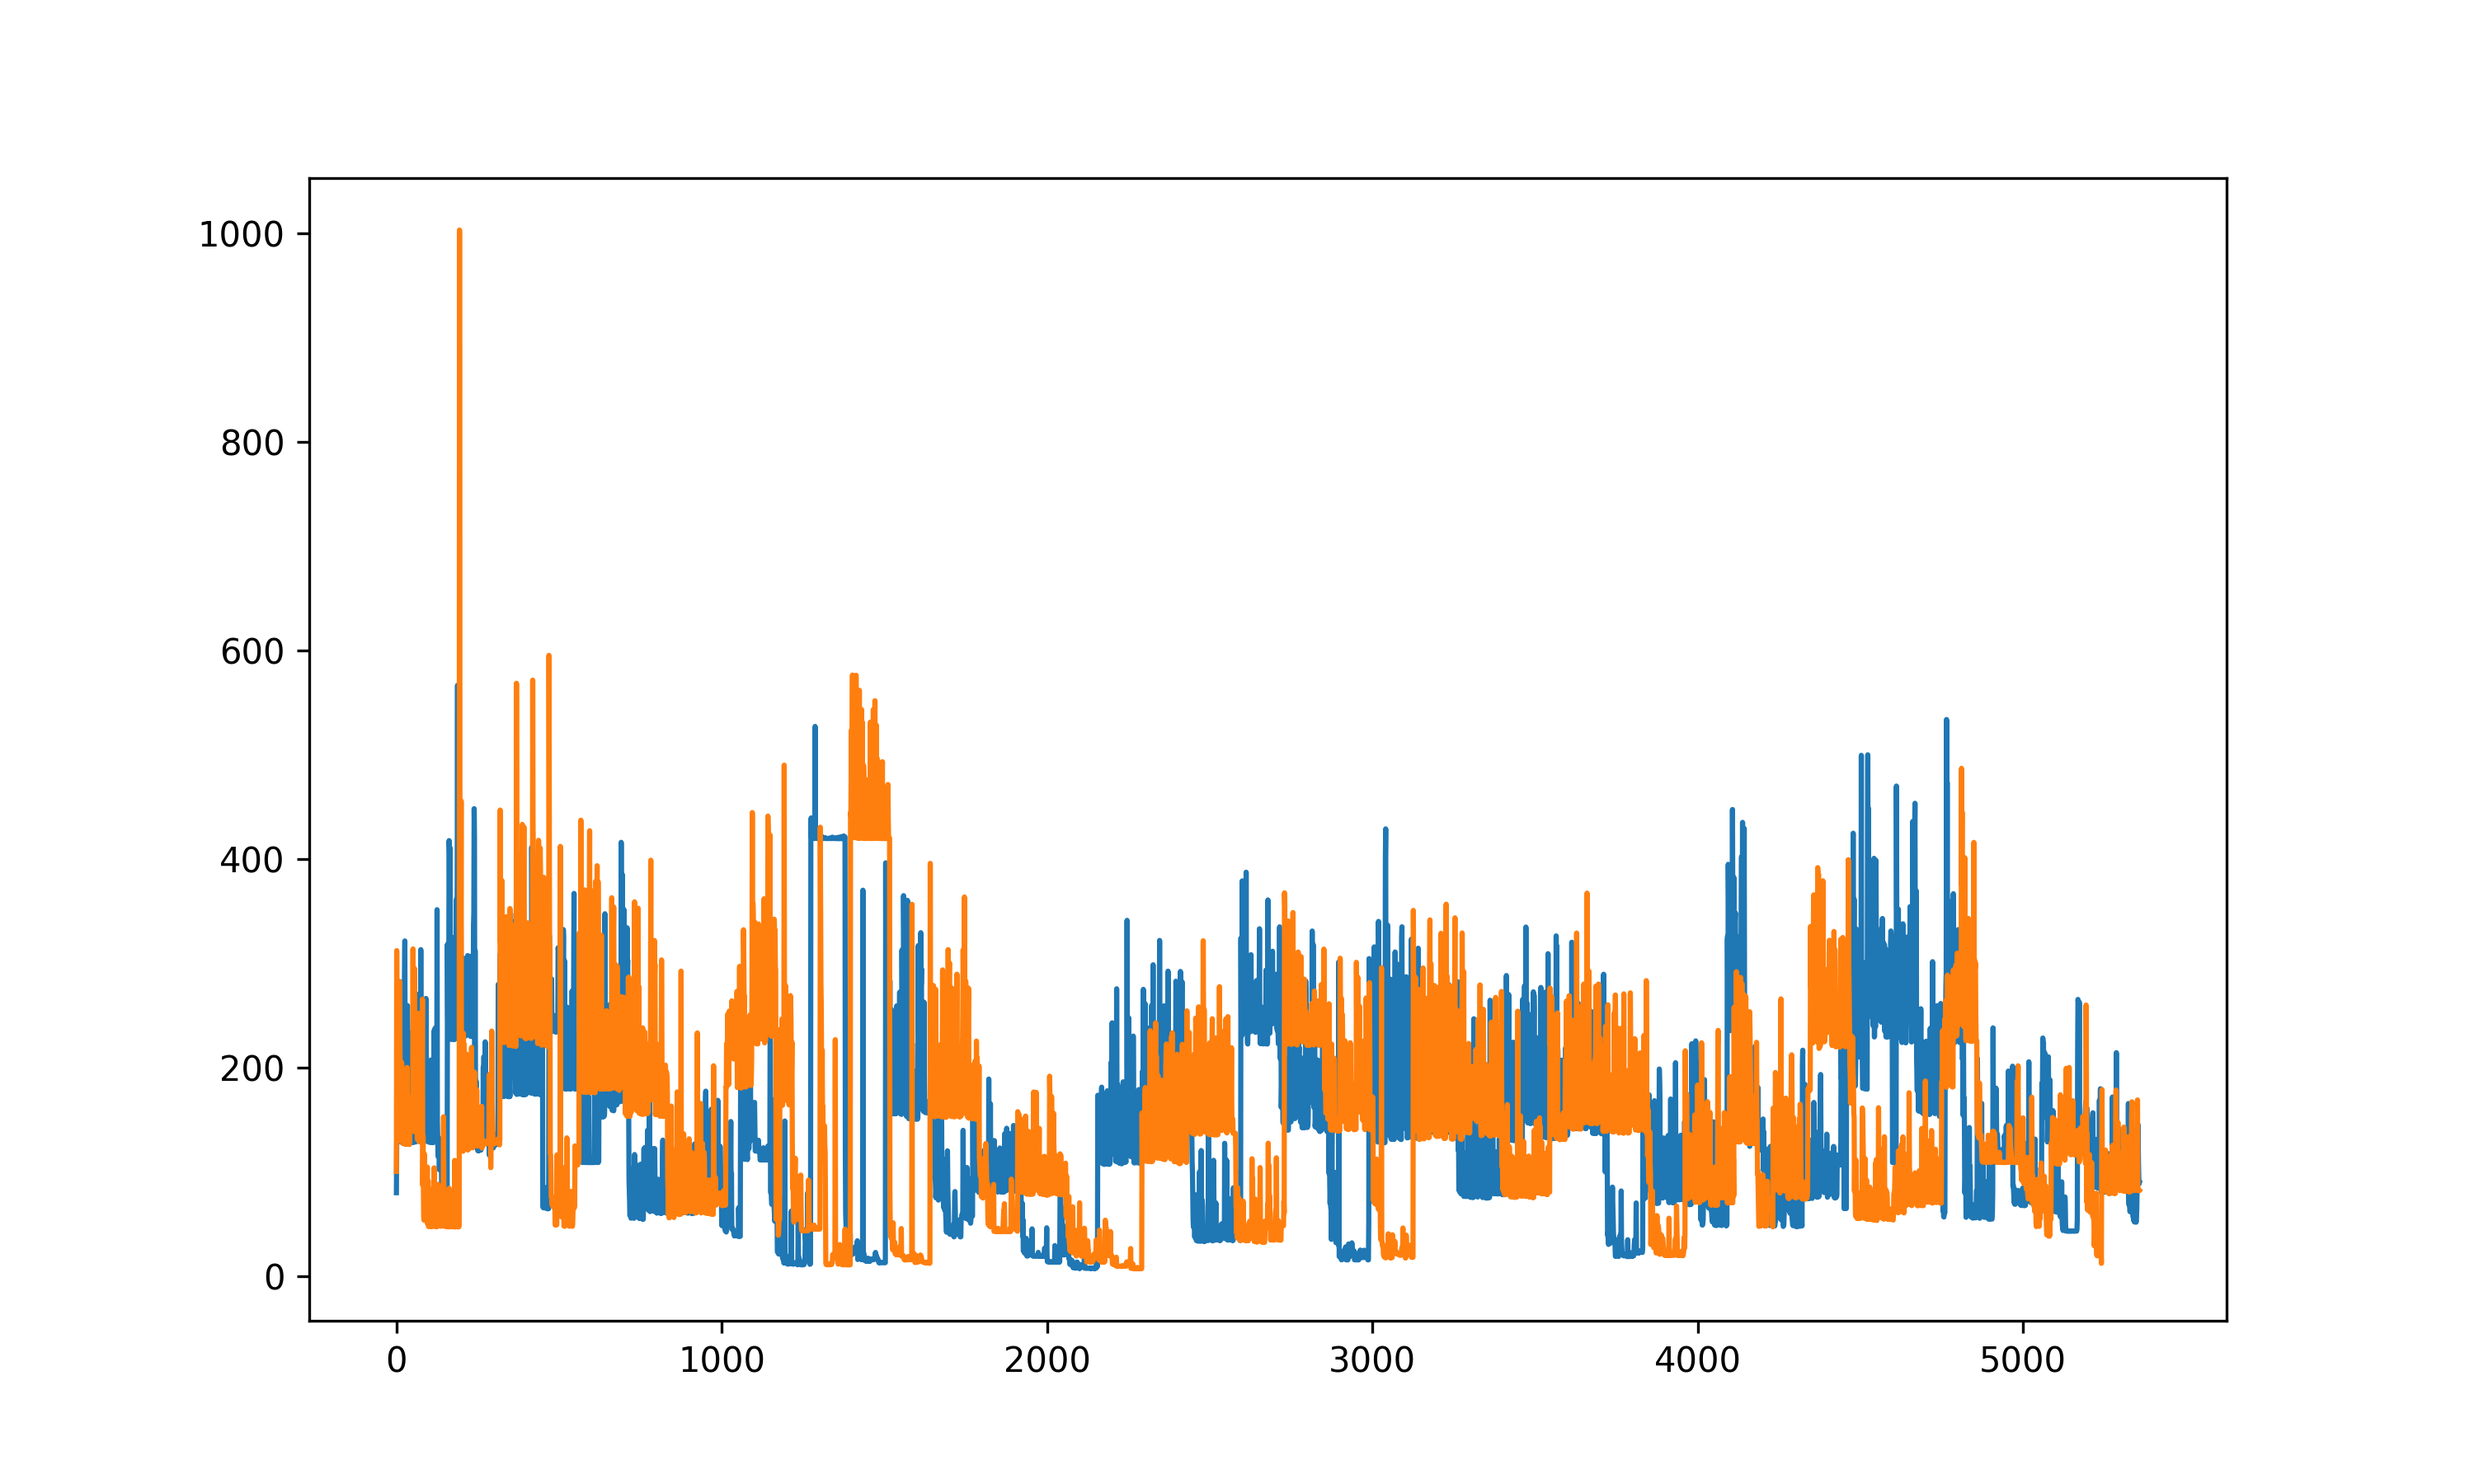
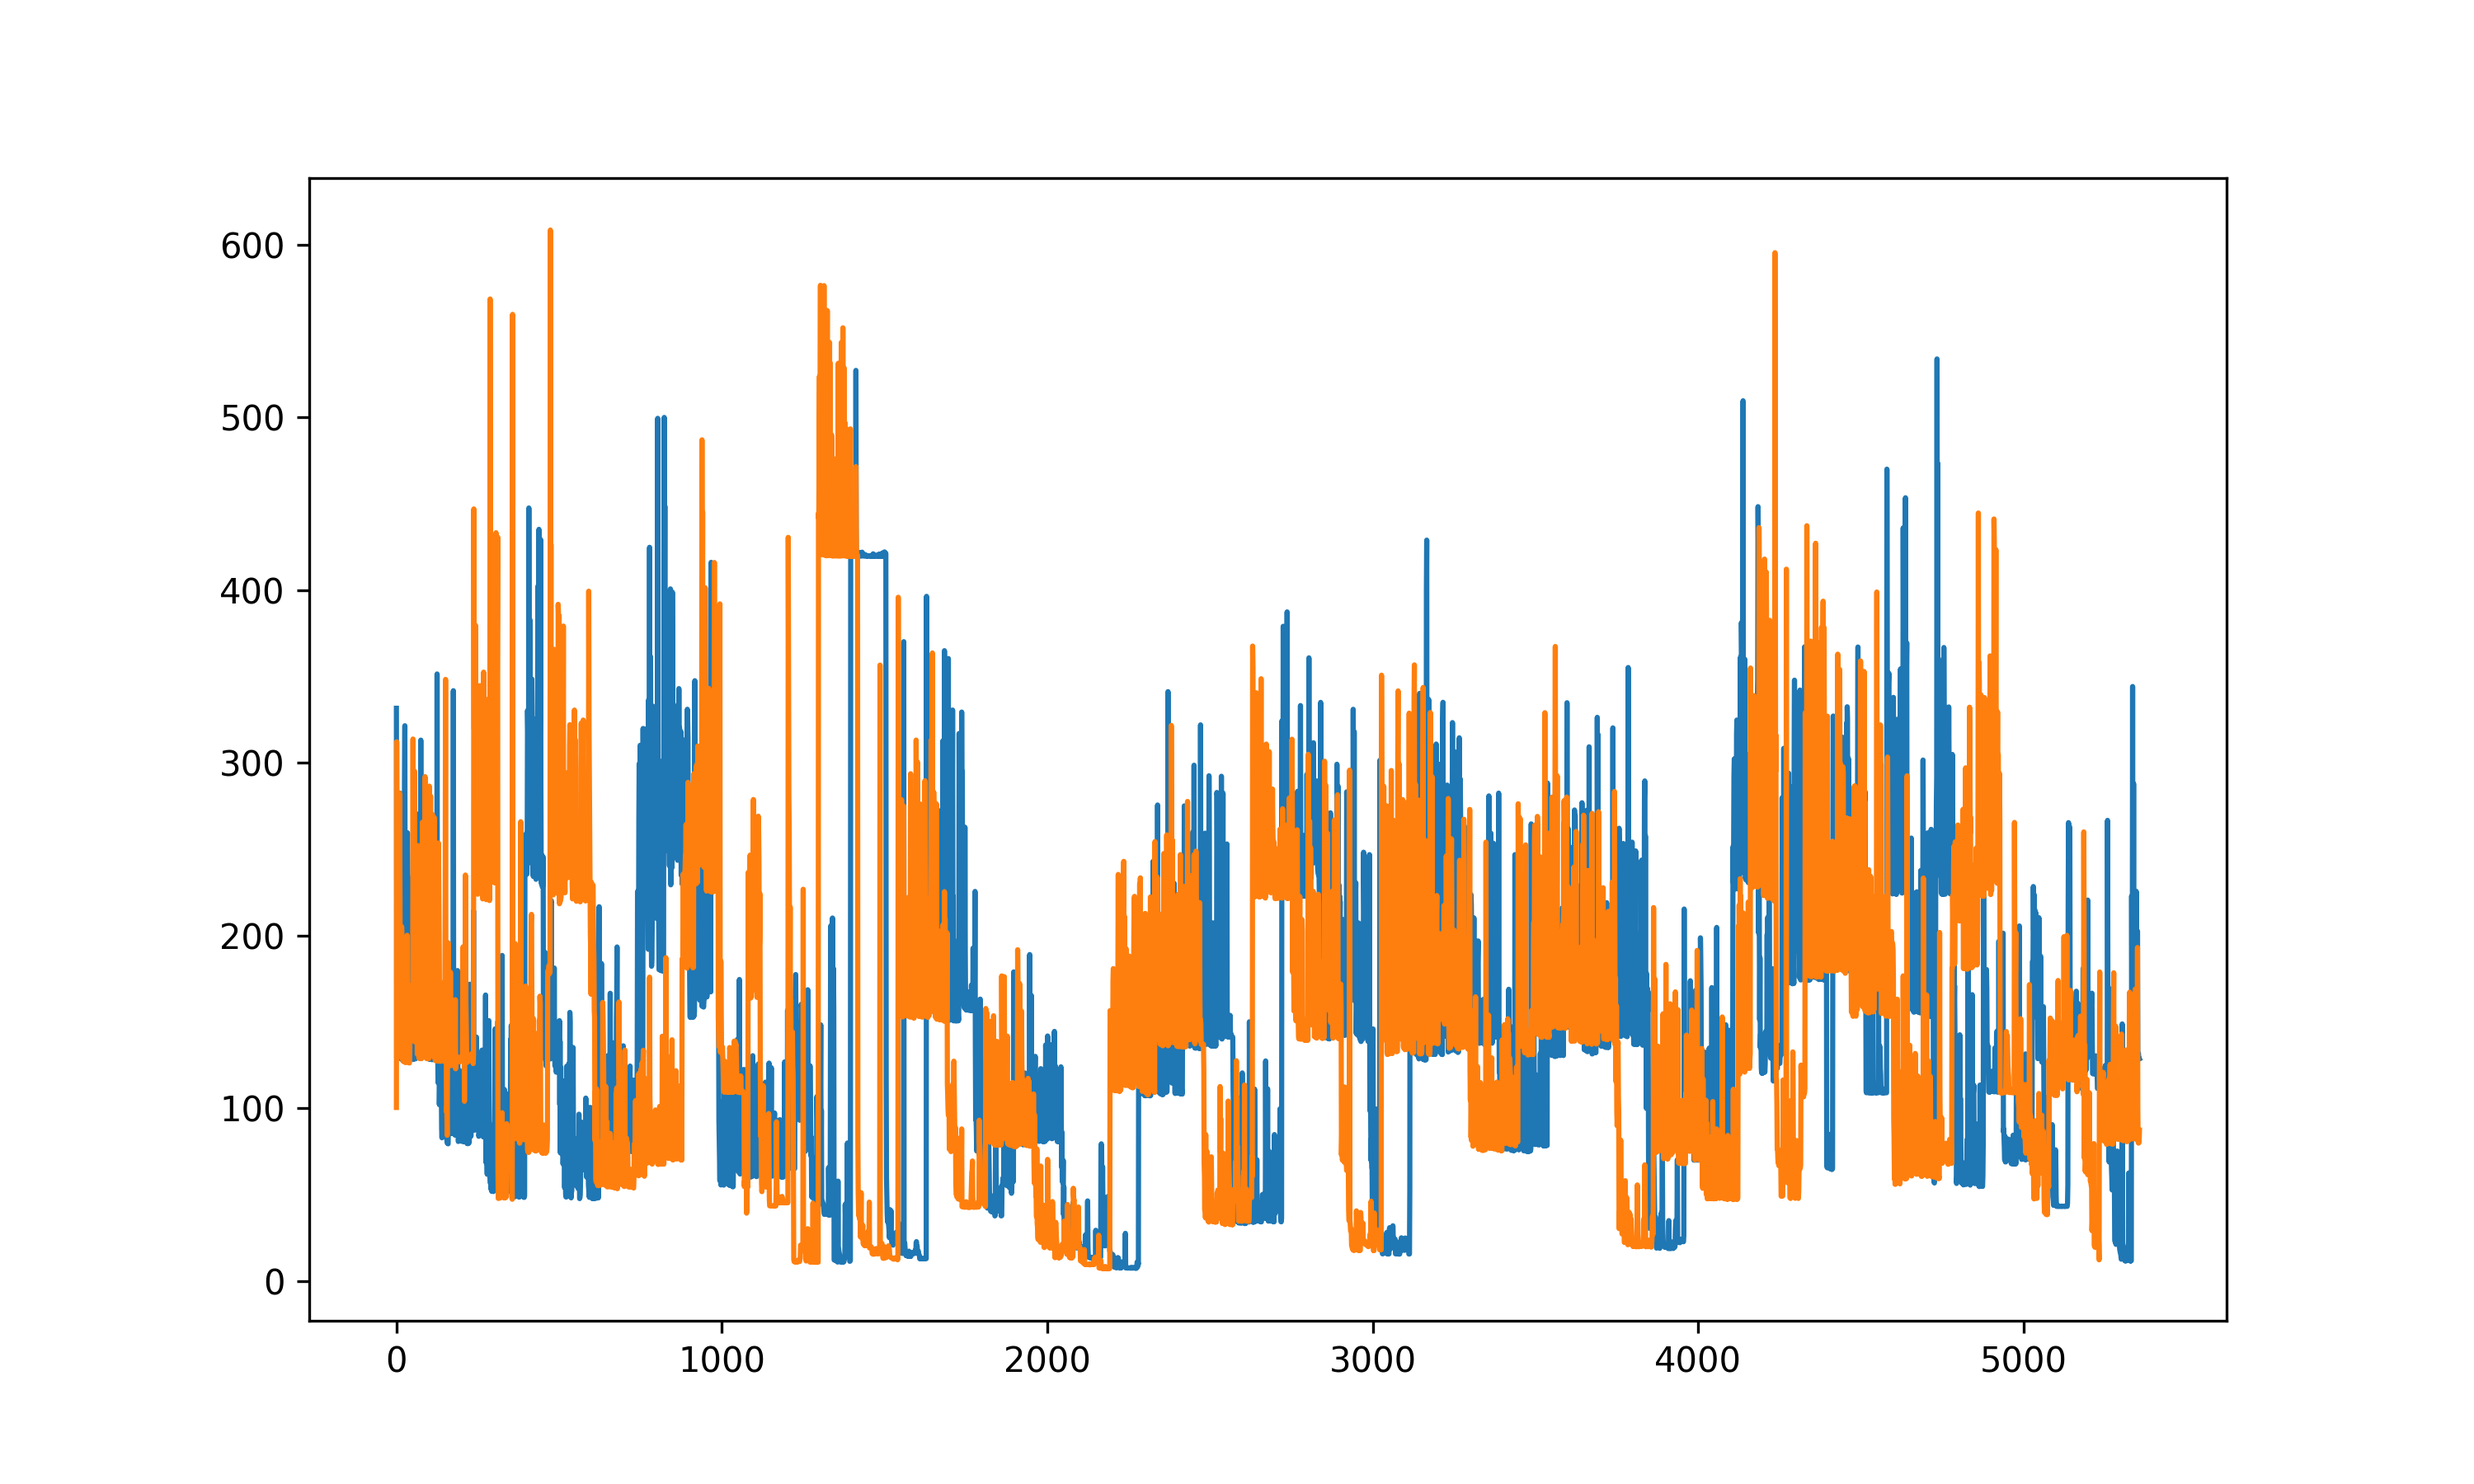
[ADD]: compare with similarity measures

diff --git a/compare/script.py b/compare/script.py
@@ -73,7 +73,7 @@ def get_outliers(values, warmup_index):
 values_list = []
 
 #sources = [sources[29], sources[34]]
-#sources = [sources[42], sources[43]]
+sources = [sources[42], sources[43]]
 for i, source in enumerate(sources):
     trials = session.get("/sources/{0}/trials".format(source['id'])).json()
     for trial in trials:
@@ -91,7 +91,7 @@ for i, source in enumerate(sources):
         values = values.to_numpy()
         path = Path(
             'benchmarks/')
-        path.mkdir(parents=True, exist_ok=True)
+        #path.mkdir(parents=True, exist_ok=True)
         filename = "benchmarks/plot_{0}_{1}_{2}.png".format(
             benchmark['name'], executor['name'], i)
         ax = fig.add_subplot()
